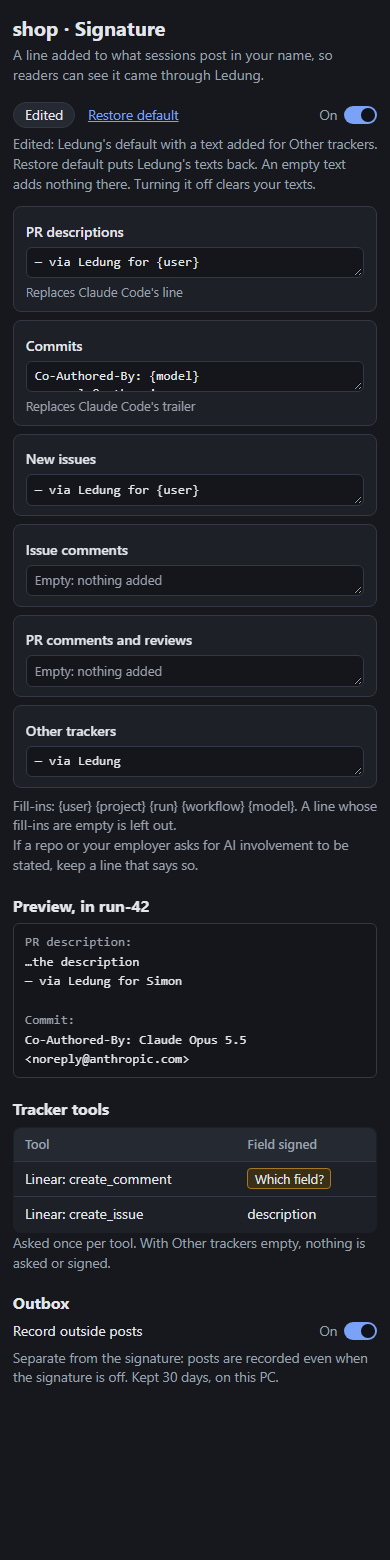
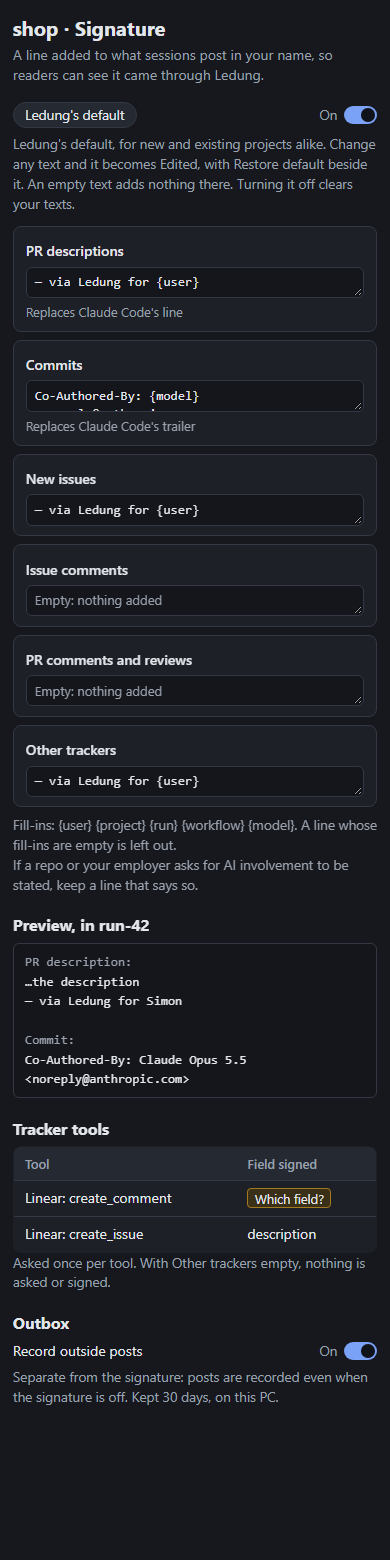
Design #513: existing projects on Ledung's default, other trackers signed by default
Simon, 2026-11-27, to the manager: on open choice 6, "I want it to go to
Ledung's standard" (reversing "existing projects should remain as is"),
and for Other trackers, "I think that box should have the same Ledung
default". A project with no setting now uses Ledung's default; the
"as today" row and paragraph are gone, with the two differences from
Claude's own lines stated for every project; trackers default to
"— via Ledung for {user}", still asked once per tool. Open choice 6
marked decided; part 1 and 3 done-when updated; settings mock-up and
screenshots redone (390 px now taken at a true 390 px viewport).

Changelog: none

diff --git a/docs/steps/project-signature/settings-mock.html b/docs/steps/project-signature/settings-mock.html
@@ -50,8 +50,8 @@ body.off .place { opacity:.5; }
 <h1>shop · Signature</h1>
 <p class="sub">A line added to what sessions post in your name, so readers can see it came through Ledung.</p>
 
-<div class="top"><span class="state">Edited</span><a class="restore" href="#">Restore default</a><span class="switch"><span class="onoff">On</span><span class="track"></span></span></div>
-<p class="hint onlyon">Edited: Ledung's default with a text added for Other trackers. Restore default puts Ledung's texts back. An empty text adds nothing there. Turning it off clears your texts.</p>
+<div class="top"><span class="state">Ledung's default</span><span class="switch"><span class="onoff">On</span><span class="track"></span></span></div>
+<p class="hint onlyon">Ledung's default, for new and existing projects alike. Change any text and it becomes Edited, with Restore default beside it. An empty text adds nothing there. Turning it off clears your texts.</p>
 <p class="hint offnote">Off: no signature anywhere, Claude Code's lines included. Turning it on fills in Ledung's default.</p>
 
 <div class="place"><label>PR descriptions</label><textarea rows="1">— via Ledung for {user}</textarea><span class="why">Replaces Claude Code's line</span></div>
@@ -59,7 +59,7 @@ body.off .place { opacity:.5; }
 <div class="place"><label>New issues</label><textarea rows="1">— via Ledung for {user}</textarea></div>
 <div class="place"><label>Issue comments</label><textarea rows="1" placeholder="Empty: nothing added"></textarea></div>
 <div class="place"><label>PR comments and reviews</label><textarea rows="1" placeholder="Empty: nothing added"></textarea></div>
-<div class="place"><label>Other trackers</label><textarea rows="1">— via Ledung</textarea></div>
+<div class="place"><label>Other trackers</label><textarea rows="1">— via Ledung for {user}</textarea></div>
 <p class="hint">Fill-ins: {user} {project} {run} {workflow} {model}. A line whose fill-ins are empty is left out.<br>If a repo or your employer asks for AI involvement to be stated, keep a line that says so.</p>
 
 <div class="onlyon"><h2>Preview, in run-42</h2>

diff --git a/docs/steps/project-signature.md b/docs/steps/project-signature.md
@@ -1,6 +1,6 @@
 # A project signature — proposal
 
-Nov 26, 2026, revised Nov 27 (Ledung's line replaces Claude Code's; then Simon's changes: a text per place, off is off, no PR summary; then one preset, Ledung's, editable, with Restore default and a small Off; an Outbox that records everything; no `Ledung-Run`) · Proposal for issue #513 (run-179). Not approved yet; nothing is built.
+Nov 26, 2026, revised Nov 27 (Ledung's line replaces Claude Code's; then Simon's changes: a text per place, off is off, no PR summary; then one preset, Ledung's, editable, with Restore default and a small Off; an Outbox that records everything; no `Ledung-Run`; then existing projects on Ledung's default too, and a default text for other trackers) · Proposal for issue #513 (run-179). Not approved yet; nothing is built.
 
 **Done when:** the "Done looks like" points of #513 hold, minus the living PR summary: a signature per project, Ledung's default or edited by hand, with a text per place and an Off; `gh` issue create, issue and PR comments and reviews get it from every body source on Windows and Mac, and PR descriptions and commits through Claude Code's own settings; every other `gh` call is unchanged; another server's write tool gets it after one question per tool and project; an Outbox records every outside post, signed or not, for 30 days; and never a second signature, one on a read-only call, a private detail in one, or a broken `gh`.
 
@@ -18,7 +18,8 @@ In conversation with the manager, relayed with his words; they go into `docs/dec
 - **One preset, Ledung's, and a text per place:** "for the presets. Let's just have the Ledung preset, and it's editable to turn into custom. With some way to restore it to the default. With a small off somehow that disables the signature and erases the text in the box." (Later on Nov 27; this replaces the earlier Claude Code standard · Ledung standard · None · Custom.) An empty text means nothing in that place.
 - **Ledung's texts replace Claude Code's lines completely, and nothing is hardcoded:** "we're replacing it with a per project signature that the user can change." Both Claude Code lines come from the project's texts. "The co-authored by claude should work the same way, unless that steps on any of Anthropic's licence thingies. If the user wants to have it there, they can have it in the signature; otherwise they can change it." (Earlier, question #2434: "We should override Claude Code's signature.") What Anthropic's terms say is under "Anthropic's terms" below.
 - **Off is off:** "If switched off, it should be off." Off means no line anywhere, Claude's included.
-- **Defaults:** "existing projects should remain as is, new projects use a Ledung standard." This replaces the earlier defaults by repo visibility. How an existing project looks with only one preset is open choice 6.
+- **Every project gets Ledung's default, existing ones too:** on what was open choice 6, "I want it to go to Ledung's standard." This reverses the earlier "existing projects should remain as is, new projects use a Ledung standard" (which had replaced defaults by repo visibility).
+- **Other trackers get the same default line:** "I think that box should have the same Ledung default", so `— via Ledung for {user}`, still asked once per tool and project which field gets it.
 - **The Outbox records every outside post:** "I like the outbox changes we mentioned", about the manager's proposal: its own per-project setting, on by default, separate from the signature; the stand-in always there; tracker writes and board posts included; one line on what it can't see; local, 30 days.
 - **No `Ledung-Run` trailer:** "Drop it." (15:42, on the manager's recommendation). It only linked a commit to a run inside this Ledung, which outsiders can't open, and would sit in every Ledung user's run commits. Anyone who wants it can type `Ledung-Run: {run}` into their commit text.
 - **No living PR summary:** "I don't think it's up to Ledung, but each project's workflow. If I want to comment every time we start a new phase of an issue, then I can have that in the workflow." A PR made in a run gets the PR-description text like any other PR.
@@ -60,9 +61,9 @@ In the project's settings, a **Signature** section: a text per place, filled fro
 | New issues | `— via Ledung for {user}` |
 | Issue comments | — |
 | PR comments and reviews | — |
-| Other trackers | — |
+| Other trackers | `— via Ledung for {user}` |
 
-It puts Ledung's line on PRs and new issues and keeps the co-author trailer on commits. Comments, reviews and trackers stay quiet: they are mostly conversation and work tools.
+It puts Ledung's line on PRs, new issues and other trackers' posts, and keeps the co-author trailer on commits. Issue comments, PR comments and reviews stay quiet: they are mostly conversation.
 
 **Three states, one preset:**
 
@@ -70,11 +71,11 @@ It puts Ledung's line on PRs and new issues and keeps the co-author trailer on c
 - **Edited:** any change to any text makes the section say "Edited" (Simon's "custom"). Nothing else changes; the texts are simply what is saved. **Restore default** puts Ledung's default back in every box, after a "Replace your texts with Ledung's default?" confirmation, and is only shown while the texts are edited.
 - **Off:** a small switch at the top of the section. Switching it off empties every box and greys them out, and saves that: **no line anywhere**, no Ledung line, no Claude line, no marker, no tracker question. The Outbox still records: it is its own setting. The edited texts are not kept (Simon: "erases the text in the box"), so the switch says "Turning it off clears your texts." **Switching it on again** fills the boxes with Ledung's default (open choice 7).
 
-There is no Claude Code preset and no None preset: Off is the None, and Claude's own lines are just text a person can type into the boxes, or keep (open choice 6 for existing projects).
+There is no Claude Code preset and no None preset: Off is the None, and Claude's own lines are just text a person can type into the boxes.
 
 **Fill-ins:** `{user}` (Ledung's user name), `{project}` (the project's name), `{run}` (`run-179`), `{workflow}` (the flow's name) and `{model}` (the session's model as Claude Code names it, `Claude Opus 5.5`). Outside a run, the run fill-ins are empty, and a line left empty by them is dropped. Ledung's default no longer uses `{run}` or `{workflow}`; they stay as fill-ins because they cost nothing and a person may want them in their own text, though a reader outside this Ledung can't open a run. Only these five exist: session titles, folder paths, account names and anything else private can't be put in a signature, because there is no fill-in for them. Every text is checked against the project's sensitive patterns on save, as board posts are. (`{steps}` went with the PR summary.)
 
-**Existing and new projects:** a project made in Ledung after this ships (New project, or the Ledung Helper) is saved with Ledung's default. A project with no signature setting (every project that exists today, and one added to the config by hand) keeps exactly what it gets today: Claude Code's own PR line and commit trailer, and nothing else. How the section shows that is open choice 6. Either way it is recorded in the Outbox like any project.
+**Existing and new projects alike:** a project with no signature setting (every project that exists today, one made with New project or the Ledung Helper, one added to the config by hand) uses Ledung's default, and its section says "Ledung's default". Nothing is written to its settings until the person edits a text or switches Off. (So a later change to Ledung's default reaches the projects still on it, and only those.) With the trackers text set by default, each project's first use of a tracker's write tool now brings the one-time field question. So from the release that ships part 1, every project's PRs end with `— via Ledung for {user}` instead of Claude Code's "Generated with" line, and its commits carry the default trailer as Ledung sets it. The changelog bullet says so plainly, because it changes what existing projects post.
 
 **Where the settings live: the project's settings, not the workflow.** Whether and how a project signs is about the repo and who reads it, and it applies to work outside a run too. Saved like the other project settings, in the project's part of the config, so a work project's text can stay in `ledung.config.local.json`. A change reaches PR descriptions and commits for sessions started or resumed afterwards (Claude Code takes those at the start; part 1 checks whether a running session can be updated), and everything else on the next call.
 
@@ -84,12 +85,11 @@ Claude Code adds its lines from two settings: `attribution.pr` and `attribution.
 
 | The project's text for the place | What Ledung sets for the session |
 |---|---|
-| No signature setting (an existing project, untouched) | nothing: Claude Code's own defaults, exactly as today |
-| A text (Ledung's default or edited) | `attribution.pr` / `attribution.commit` = that text, filled in |
+| A text (Ledung's default, which a project with no setting has, or edited) | `attribution.pr` / `attribution.commit` = that text, filled in |
 | Empty (emptied by hand) | an empty string: no line in that place |
 | Off | `attribution: false`: no line at all |
 
-Leaving an untouched existing project alone keeps "as is" literal: Claude's own trailer names the model making each commit, including a subagent's, and a person's own `attribution` settings still apply. Once a text is set, `{model}` is the session's model at the start, refilled if Ledung switches the model; a commit made by a subagent on another model then names the session's model. That is the one difference from Claude's own trailer, and it only arises once a project's texts are set.
+Two differences from today, now in every project. `{model}` is the session's model at the start, refilled if Ledung switches the model, so a commit made by a subagent on another model names the session's model, where Claude's own trailer names the subagent's. And a person's own `attribution` in their Claude Code settings no longer applies to Ledung's sessions: the project's texts win there, which is the point of a per-project signature. Sessions outside Ledung are untouched.
 
 Because Claude Code adds the PR line itself, it is there in every shell and in container sessions too. A PR description gets its line only this way: the stand-in doesn't sign `gh pr create`, so there is never a second line on a PR. Commits get no marker; a trailer is plain to read. No git hooks are installed in anyone's repository.
 
@@ -141,7 +141,7 @@ Ledung's existing hook gets one more step for `mcp__*` tools of servers that are
 
 ### The Outbox
 
-**A record of every outside post the sessions make, signed or not.** It is its own per-project setting, **Record outside posts**, on by default and separate from the signature: a project whose signature is Off, or an existing project still on Claude Code's own lines, is recorded all the same. Switching it off stops recording for that project from the next call; what was recorded stays until it ages out.
+**A record of every outside post the sessions make, signed or not.** It is its own per-project setting, **Record outside posts**, on by default and separate from the signature: a project whose signature is Off is recorded all the same. Switching it off stops recording for that project from the next call; what was recorded stays until it ages out.
 
 **What it records:**
 
@@ -194,9 +194,9 @@ Each part is its own PR, reviewed and approved on its own. Part 1 comes first: i
 
 | # | Part | Done when | Session time | Plan use |
 |---|---|---|---|---|
-| 1 | **Settings, Ledung's default and Claude Code's lines:** the Signature section (a text per place, Default / Edited, Restore default, the Off switch that empties the boxes, fill-ins with `{model}`, preview, sensitive check), existing projects left on Claude Code's own lines (open choice 6) and Ledung's default for new ones, `attribution` per session, the journal file. | First the two checks under "PR descriptions and commits". Then, in a throwaway Ledung with Haiku: an existing project's session makes a PR and a commit exactly as today; a new project's (Ledung's default) PR ends with `— via Ledung for …` and no Claude line, and its commit carries `Co-Authored-By: Claude Haiku …` and nothing else; switched Off, neither has any line and the boxes are empty; an edited text shows up as typed; Restore default brings back the default texts. The person's own Claude Code settings file is unchanged. Settings work at 390 px. | 60–90 min | medium: one build session plus review |
+| 1 | **Settings, Ledung's default and Claude Code's lines:** the Signature section (a text per place, Default / Edited, Restore default, the Off switch that empties the boxes, fill-ins with `{model}`, preview, sensitive check), Ledung's default for every project without a setting, existing ones included, `attribution` per session, the journal file. | First the two checks under "PR descriptions and commits". Then, in a throwaway Ledung with Haiku: a project that existed before (no signature setting) and a new one both get Ledung's default: the PR ends with `— via Ledung for …` and no Claude line, and the commit carries `Co-Authored-By: Claude Haiku …` and nothing else, with no setting written to the config; switched Off, neither has any line and the boxes are empty; an edited text shows up as typed; Restore default brings back the default texts. The person's own Claude Code settings file is unchanged. Settings work at 390 px. | 60–90 min | medium: one build session plus review |
 | 2 | **The stand-in `gh`** (local sessions): on `PATH` in every local session, recording the listed commands and writing `gh api` calls, signing the four commands from all three body sources when a text applies, the marker and its check, the silent fallback, journal lines. | Tests cover each command and body source, pass-through (same output and exit code) for the everyday `gh` calls, a recorded-only call passing unchanged, `pr create` and edits left unsigned, `gh api` reads not recorded, and the fallback (missing session file, broken `gh.mjs`, Node not starting, journal not writable). A throwaway Ledung on Windows signs a real issue and comment in a throwaway repo from Git Bash; a repeated post isn't signed twice. One run on a Mac. | ≈ 105 min | medium |
-| 3 | **Other trackers:** picking out write tools, recording every write (`PostToolUse`), the one-time field question, the signing step and how it fits the chain, the repeat check without a marker. | The check-1 tracker server, under a throwaway Ledung, asks once and signs every later call. A read-only tool is never touched. A refused call stays refused. A repeated call isn't signed twice. With an empty trackers text, nothing is asked or signed, but writes are still recorded. | 60–90 min | medium |
+| 3 | **Other trackers:** picking out write tools, recording every write (`PostToolUse`), the one-time field question, the signing step and how it fits the chain, the repeat check without a marker. | The check-1 tracker server, under a throwaway Ledung, asks once and signs every later call. A read-only tool is never touched. A refused call stays refused. A repeated call isn't signed twice. With Ledung's default, the signed field gets `— via Ledung for …`. With an empty trackers text, nothing is asked or signed, but writes are still recorded. | 60–90 min | medium |
 | 4 | **Outbox:** database entry, Ledung's board posts added, the 30-day trim, list, filters, the Signed column, the line on what it can't see, the page at both widths. | It lists parts 2–3's posts and the board's, signed and unsigned, with links, per project and run; a project with the signature Off is still listed; with recording off, nothing new appears; an entry older than 30 days is gone; it works at 1280 and 390 px (dark-mode screenshots beside this mock-up). | ≈ 75 min | medium (page and screenshots) |
 
 About 5 to 6 hours of session time in all, in four PRs: about 30 minutes more than before, for recording every post (stand-in and fallback tests in part 2, board posts and the trim in part 4). Each part also waits for code review, CI and Simon's sign-off. No measured figures from Ledung exist for this kind of work yet, so plan use is only relative.
@@ -213,15 +213,13 @@ About 5 to 6 hours of session time in all, in four PRs: about 30 minutes more th
    - **(a) No `gh.ps1` for now (recommended):** PowerShell finds the real `gh.exe`, so issues and comments from PowerShell go unsigned but never break. Git Bash is Claude Code's shell on Windows.
    - (b) Write `gh.ps1` only when Ledung finds the execution policy allows scripts.
 4. **What Ledung's default says.**
-   - **(a) As in the table (recommended, the manager's suggestion):** PR descriptions and new issues `— via Ledung for {user}`; commits `Co-Authored-By: {model} <noreply@anthropic.com>`; comments, reviews and trackers empty. The co-author trailer stays because it says honestly, in a form GitHub reads, that Claude wrote the code; the PR line changes because "Generated with Claude Code" is the courtesy line Ledung's replaces.
+   - **(a) As in the table (recommended, the manager's suggestion):** PR descriptions, new issues and other trackers `— via Ledung for {user}` (trackers decided by Simon); commits `Co-Authored-By: {model} <noreply@anthropic.com>`; issue comments, PR comments and reviews empty. The co-author trailer stays because it says honestly, in a form GitHub reads, that Claude wrote the code; the PR line changes because "Generated with Claude Code" is the courtesy line Ledung's replaces.
    - (b) The same, but commits `Via: Ledung for {user}`, without the co-author trailer: one Ledung line everywhere, but the commit no longer says Claude co-wrote it.
    - (c) The same as (a), plus issue comments and PR comments and reviews `— via Ledung`: more visible, more noise in conversations.
 5. **Where the Outbox lives.**
    - **(a) A sidebar entry next to runs, as in the mock-up (recommended):** one place across projects, with filters.
    - (b) A tab in each project's settings.
-6. **How an existing project shows in the Signature section.** It has no setting and must keep exactly today's lines.
-   - **(a) As edited text holding Claude Code's two lines (recommended):** the PR box shows `🤖 Generated with [Claude Code](https://claude.com/claude-code)`, the commit box `Co-Authored-By: {model} <noreply@anthropic.com>`, the rest empty, marked "Edited" with Restore default beside it. While those boxes are untouched, Ledung saves nothing and sets nothing, so Claude Code's own lines go out exactly as today (a subagent's model included). Once anything is changed, it is saved like any edited text. One preset, one way to read the section: the boxes show what goes out.
-   - (b) A separate note instead of boxes: "This project uses Claude Code's own lines, as before. Use Ledung's signature?" with a button. Plainer, but a fourth state beside Default, Edited and Off, which Simon's one-preset choice was meant to avoid. The manager suggested this one: an existing project gets nothing from Ledung, and the section says so and offers Ledung's default. I still recommend (a), because the boxes then always show what goes out, but both keep the project exactly as today.
+6. **How an existing project shows in the Signature section: decided.** Simon, 2026-11-27: "I want it to go to Ledung's standard." An existing project shows and gets Ledung's default like a new one (see "Existing and new projects alike"). The number is kept so earlier references still fit.
 7. **Switching Off back on.** Off has already erased the texts.
    - **(a) The boxes fill with Ledung's default (recommended):** on means signed, and "on with every box empty" would be a second Off. Editing from there is the same as always.
    - (b) The boxes stay empty until the person types or presses Restore default: nothing appears that the person didn't put there, but until then on behaves like Off.
